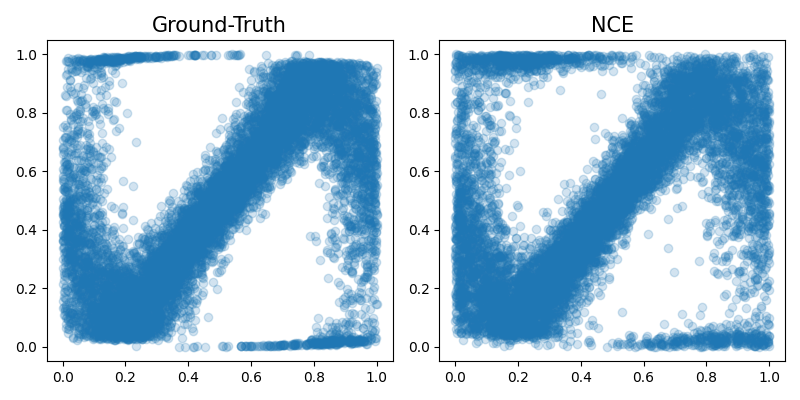
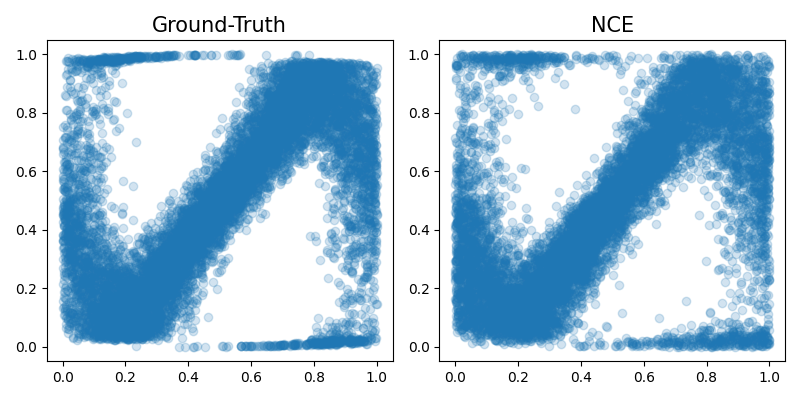
add burn-in period

Changed region(s): [[0.5625, 0.12, 0.9688, 0.9], [0.7812, 0.93, 0.8125, 0.96]]

diff --git a/copula/modules/toy_NCECopula.py b/copula/modules/toy_NCECopula.py
@@ -38,7 +38,7 @@ class NCECopula():
         print(self.model)
         
         """training: Noise contrastive estimation"""
-        for i in range(self.config["iterations"]):
+        for i in range(self.config["iterations"]+1):
             self.optimizer.zero_grad()
 
             idx = np.random.choice(
@@ -55,8 +55,8 @@ class NCECopula():
             self.optimizer.step()
             
             if verbose:
-                if i % 100 == 0:
-                    print_input = "[Iter {:03d}]".format(i + 1)
+                if (i+1) % 100 == 1:
+                    print_input = "[Iter {:03d}]".format(i)
                     print_input += ''.join([', Loss: {:.4f}'.format(loss)])
                     print(print_input)
                     
@@ -67,14 +67,14 @@ class NCECopula():
         return inv_cdf
     
     """Gibbs sampling"""
-    def gibbs_sampling(self, test_size):
+    def gibbs_sampling(self, test_size, burn_in=100):
         self.model.eval()
 
         a = np.linspace(0, 1, self.config["grid_points"])
-        uv_samples = np.zeros((test_size, self.config["data_dim"]))
+        uv_samples = np.zeros((burn_in + test_size, self.config["data_dim"]))
         uv_samples[0, :] = np.random.uniform(0, 1, self.config["data_dim"]) # random initialization
         
-        for t in tqdm.tqdm(range(1, test_size), desc="Gibbs Sampling..."):
+        for t in tqdm.tqdm(range(1, burn_in + test_size), desc="Gibbs Sampling..."):
             for i in range(self.config["data_dim"]):
                 if i == 0:
                     # (t-1)th sample -> coordinates 1, ..., d-1
@@ -117,6 +117,9 @@ class NCECopula():
                     conditional_density.numpy().squeeze(1),
                     np.linspace(0, 1, self.config["grid_points"] + 1))
                 uv_samples[t, i] = icdf(np.random.uniform())
-
+        
+        # burn-in period
+        uv_samples = uv_samples[burn_in:, ]
+        assert len(uv_samples) == test_size
         return uv_samples
 #%%
